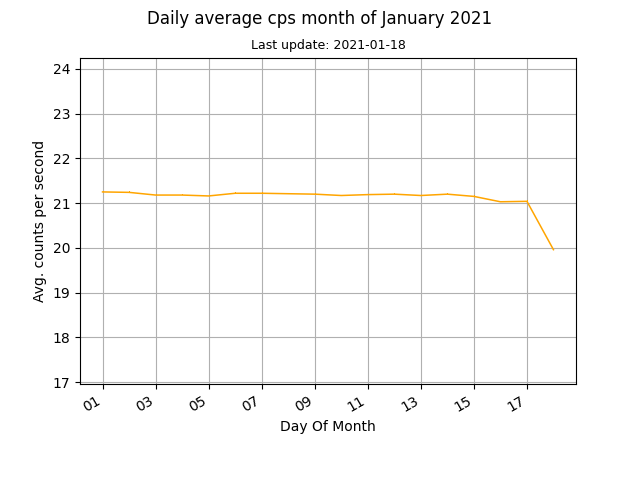
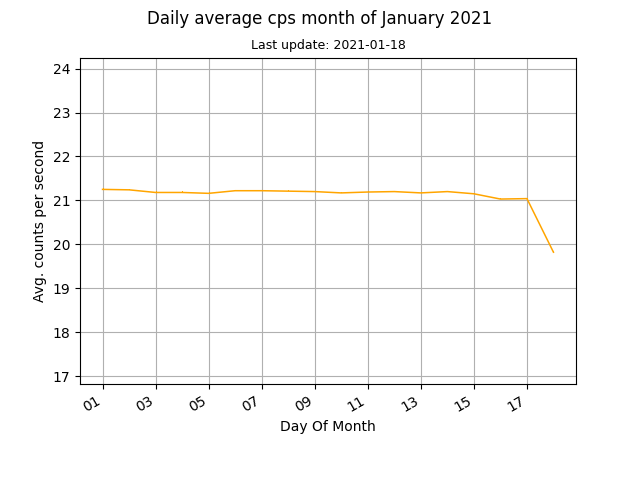
auto data update

diff --git a/docs/index.html b/docs/index.html
@@ -45,8 +45,8 @@
 	
 	<br>
 	
-	<p>Current counts per second (cps): 9.37</p>
-	<p>Last update: 2021-01-18, 20:52</p>
+	<p>Current counts per second (cps): 8.96</p>
+	<p>Last update: 2021-01-18, 21:07</p>
 
 	<p><a href="images/monthly.png"><img src="images/monthly.png" alt="Mothly avg cps data"></a><a href="images/daily.png"><img src="images/daily.png" alt="Daily avg cps data"></a></p>
 	
